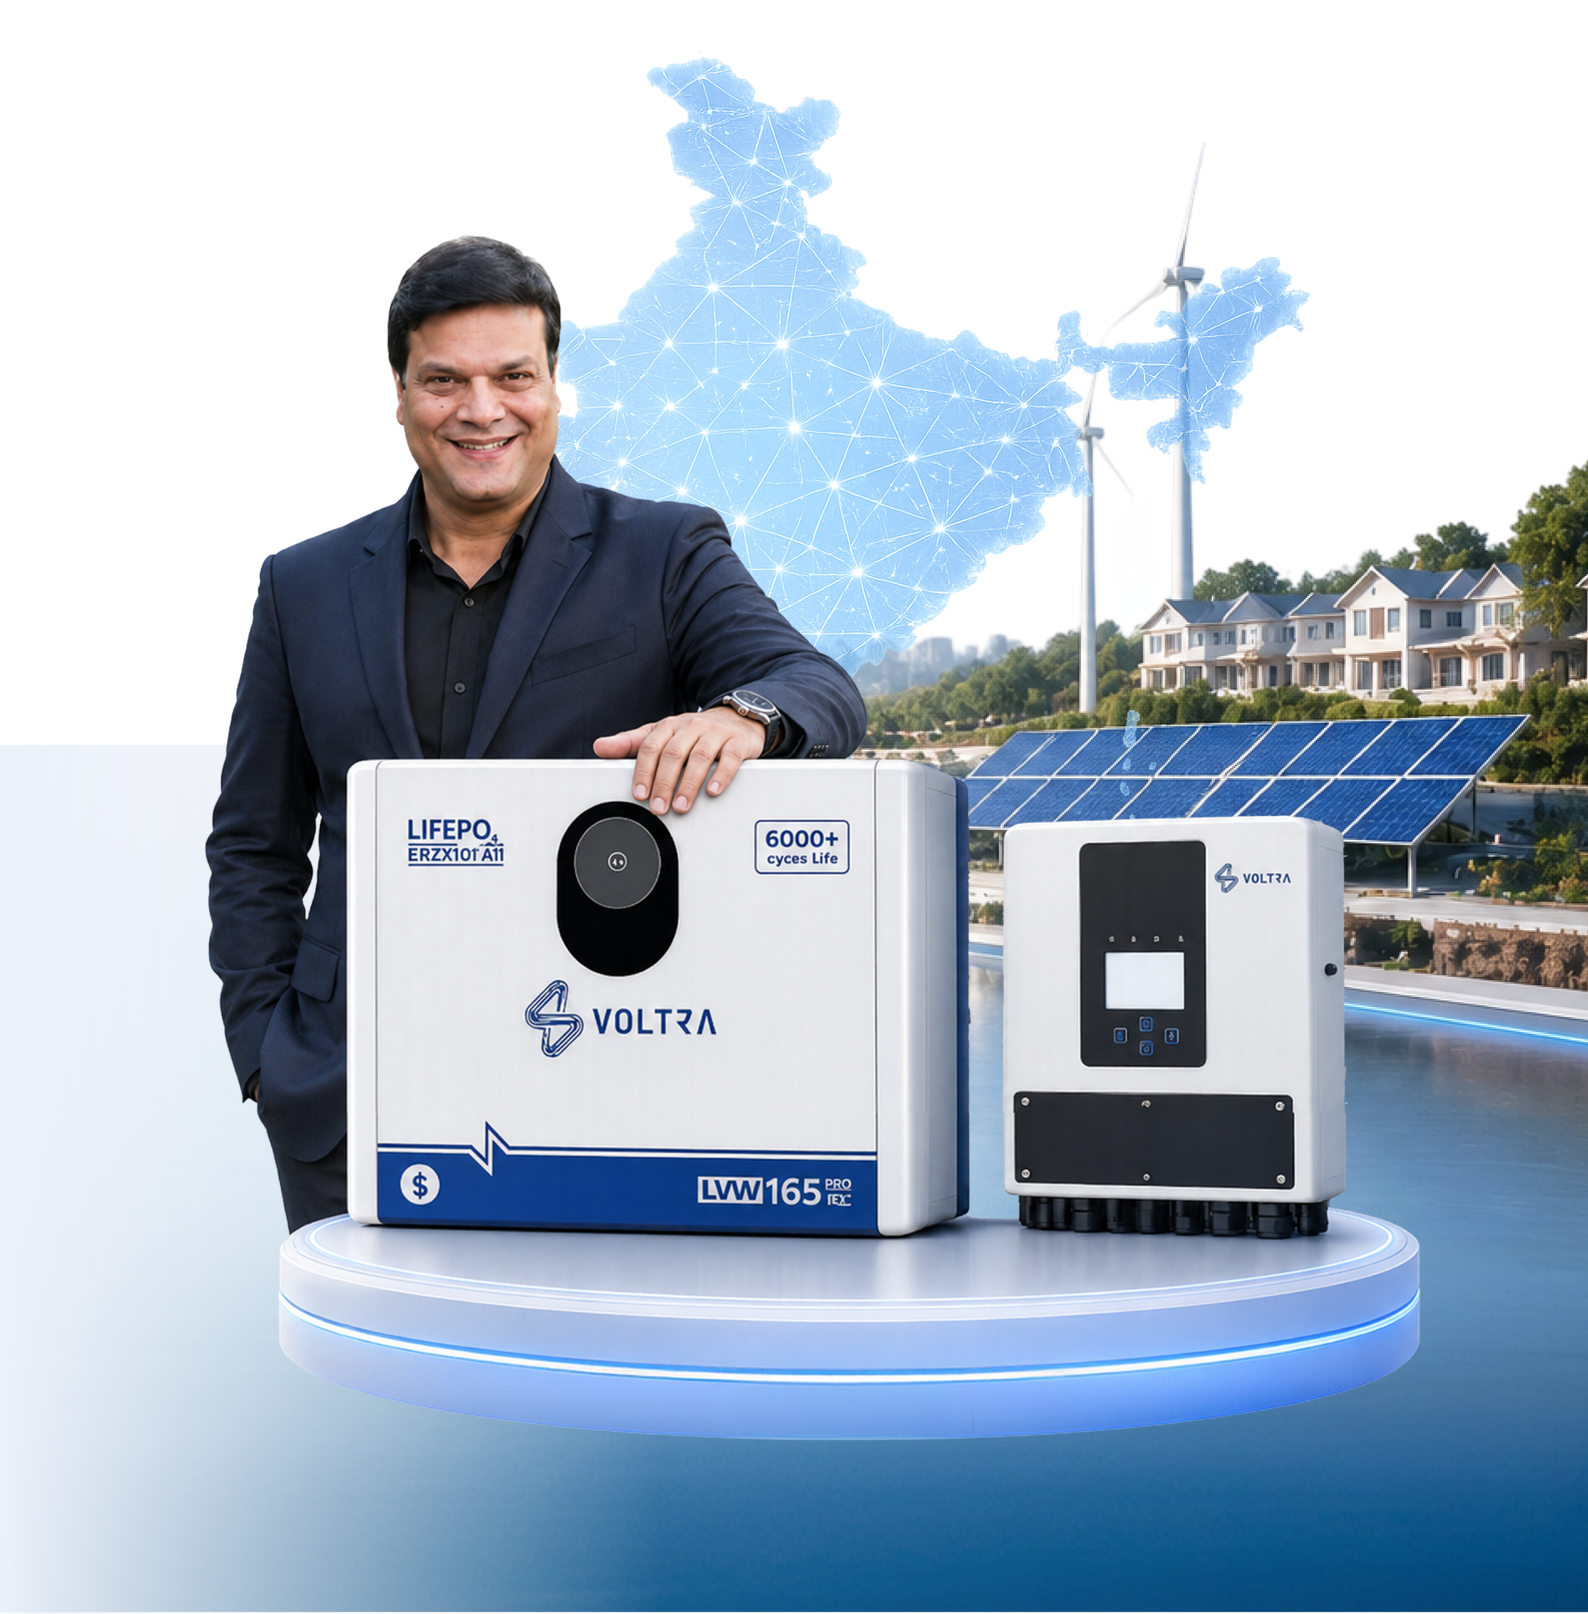
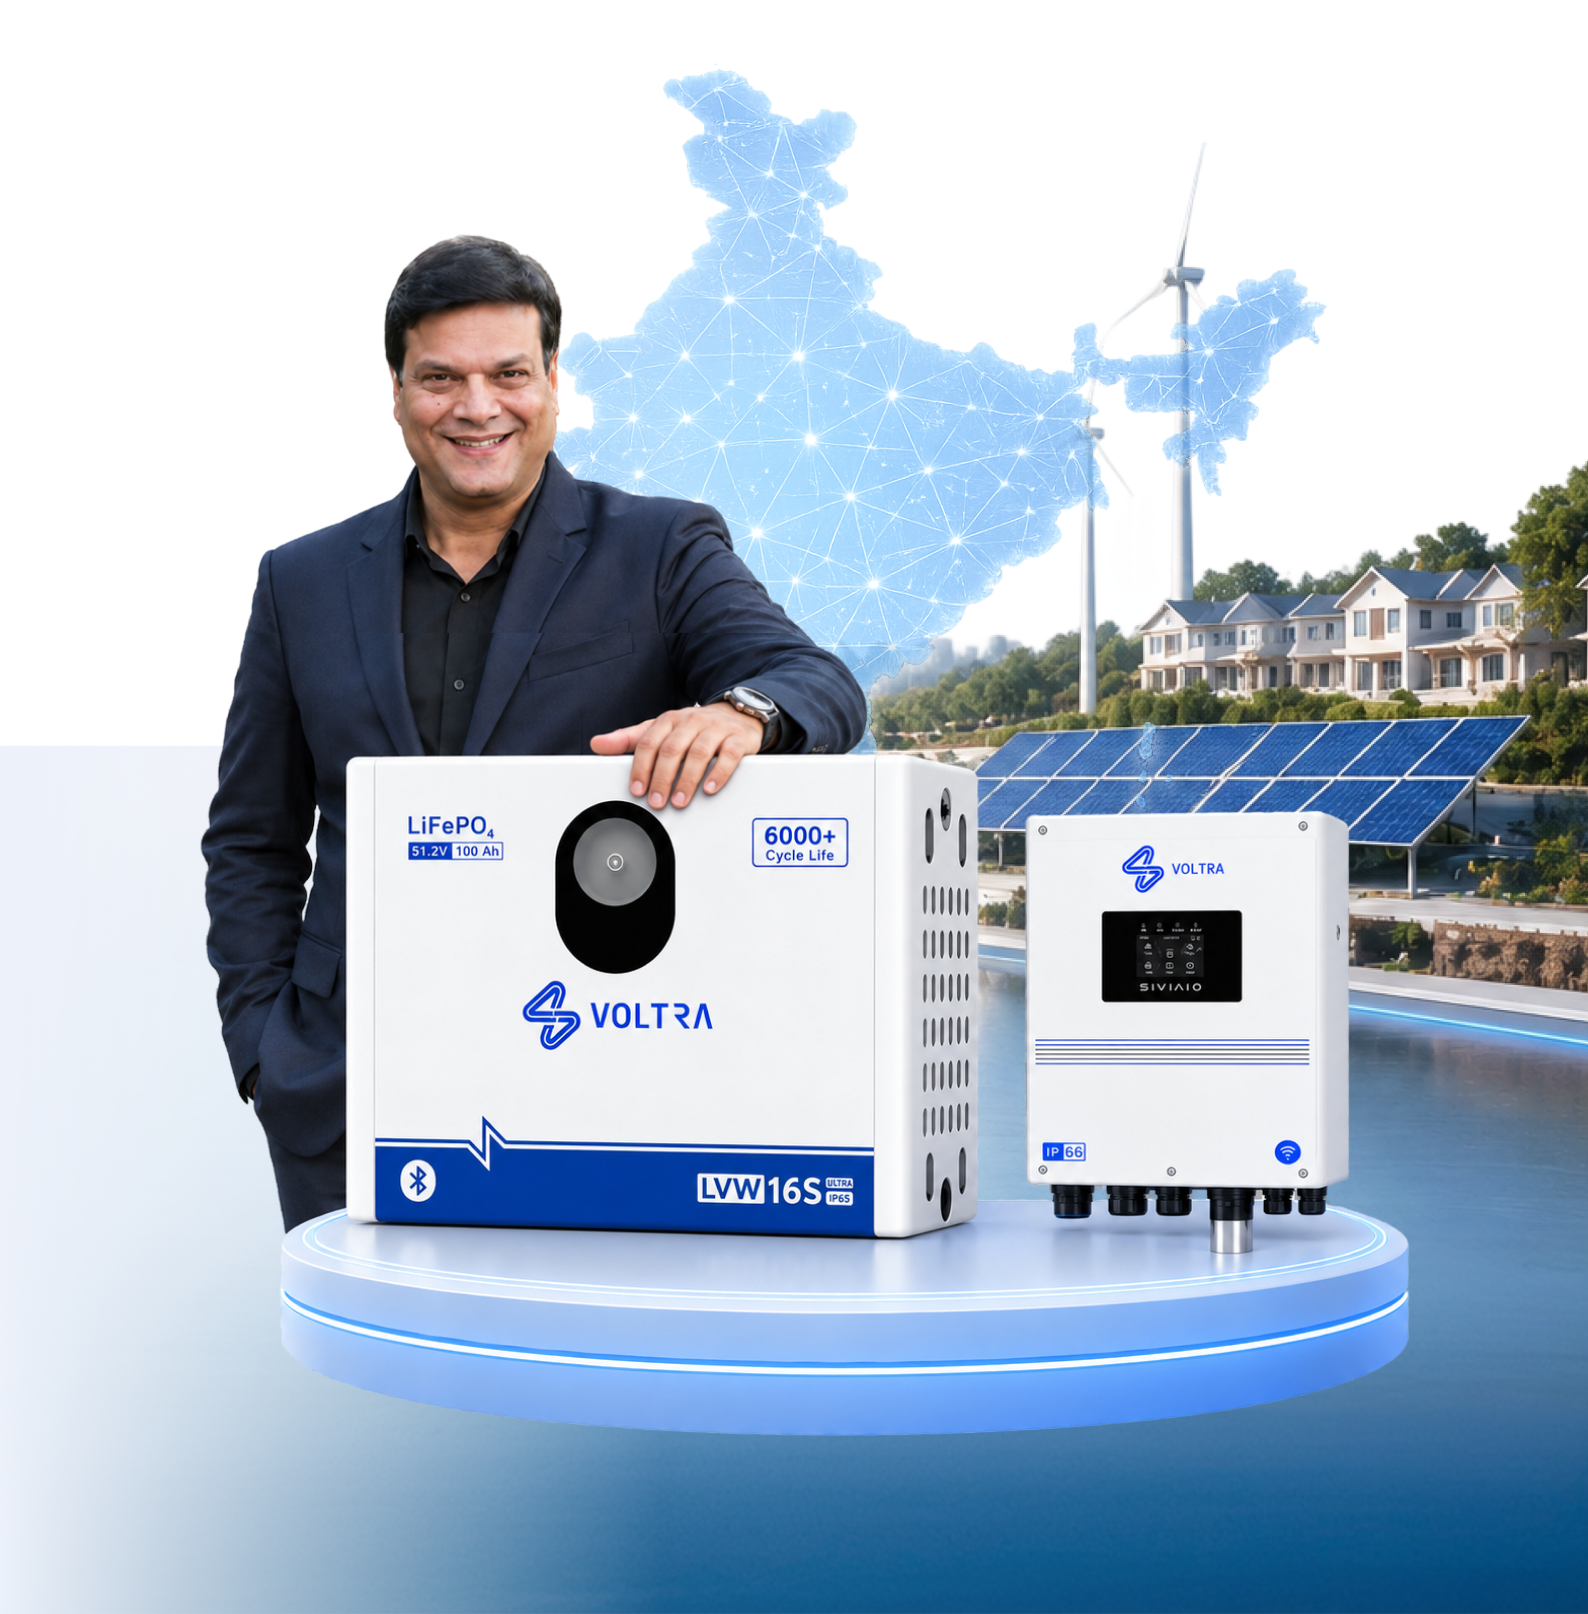
Fix hero + home product images to match Figma
The hero composite was an old AI-garbled render ("LIFEPO4 ERZX101 A11",
"LVW 165 PRO", "$" icon). Re-composited the correct Figma layers (landscape,
India map, and the proper founder + LVW 16S ULTRA battery + SIVIAIO inverter
render with correct "LiFePO4 51.2V 100Ah / 6000+ Cycle Life / IP65 / IP66"
text and Bluetooth/Wi-Fi marks), extracted via the Figma API.

Home showcase sections now use the clean Figma product shots and the correct
line-up:
- Battery Solutions: VOLT-LVW 16S, 4S PRO, 4S (was showing LV-50 by accident).
- Inverter Solutions: 3KW1 / 8KW3 / 30KW3 with their Figma renders.
- High Voltage: LINK / HVC rack / LINK AIR with matching Figma renders.
Only the image is overridden; specs/features stay sourced from the catalog.

diff --git a/src/constants/site.js b/src/constants/site.js
@@ -115,22 +115,36 @@ export const HYBRID_INVERTERS = [
   ...productsByKey("three-phase-hv"),
 ];
 
+// Home showcase sections — curated products rendered with the clean Figma
+// product shots (public/voltra/figma). Data comes from the catalog by id; only
+// the image is overridden so specs/features stay in sync with /products.
+const byId = (key, id) => productsByKey(key).find((p) => p.id === id);
+const withImg = (p, image) => (p ? { ...p, image } : p);
+
 export const HIGH_VOLTAGE_PRODUCTS = {
   title: "Our High Voltage Range Products",
-  products: [...productsByKey("containerized"), ...productsByKey("hv-rack")],
+  products: [
+    withImg(productsByKey("containerized")[0], "/voltra/figma/home-hv-1.png"), // VOLT-LINK cabinet
+    withImg(productsByKey("hv-rack")[0], "/voltra/figma/home-hv-2.png"), // VOLT-HVC rack
+    withImg(productsByKey("containerized")[1], "/voltra/figma/home-hv-3.png"), // VOLT-LINK AIR
+  ].filter(Boolean),
 };
 
 export const BATTERY_SOLUTIONS = {
   title: "Our Battery Solutions for your home",
-  products: productsByKey("wall").slice(0, 3),
+  products: [
+    withImg(byId("wall", "volt-lvw-16s-ip65"), "/voltra/figma/home-bat-16s.png"),
+    withImg(byId("wall", "volt-lvw-4s-pro"), "/voltra/figma/home-bat-4s-pro.png"),
+    withImg(byId("wall", "volt-lvw-4s"), "/voltra/figma/home-bat-4s.png"),
+  ].filter(Boolean),
 };
 
 export const INVERTER_SOLUTIONS = {
   title: "Our Inverter Solutions for your home",
   products: [
-    productsByKey("single-phase")[0],
-    productsByKey("three-phase")[0],
-    productsByKey("three-phase-hv")[0],
+    withImg(byId("single-phase", "volt-3kw1"), "/voltra/figma/home-inv-1.png"),
+    withImg(productsByKey("three-phase")[0], "/voltra/figma/home-inv-2.png"),
+    withImg(productsByKey("three-phase-hv")[0], "/voltra/figma/home-inv-3.png"),
   ].filter(Boolean),
 };
 
